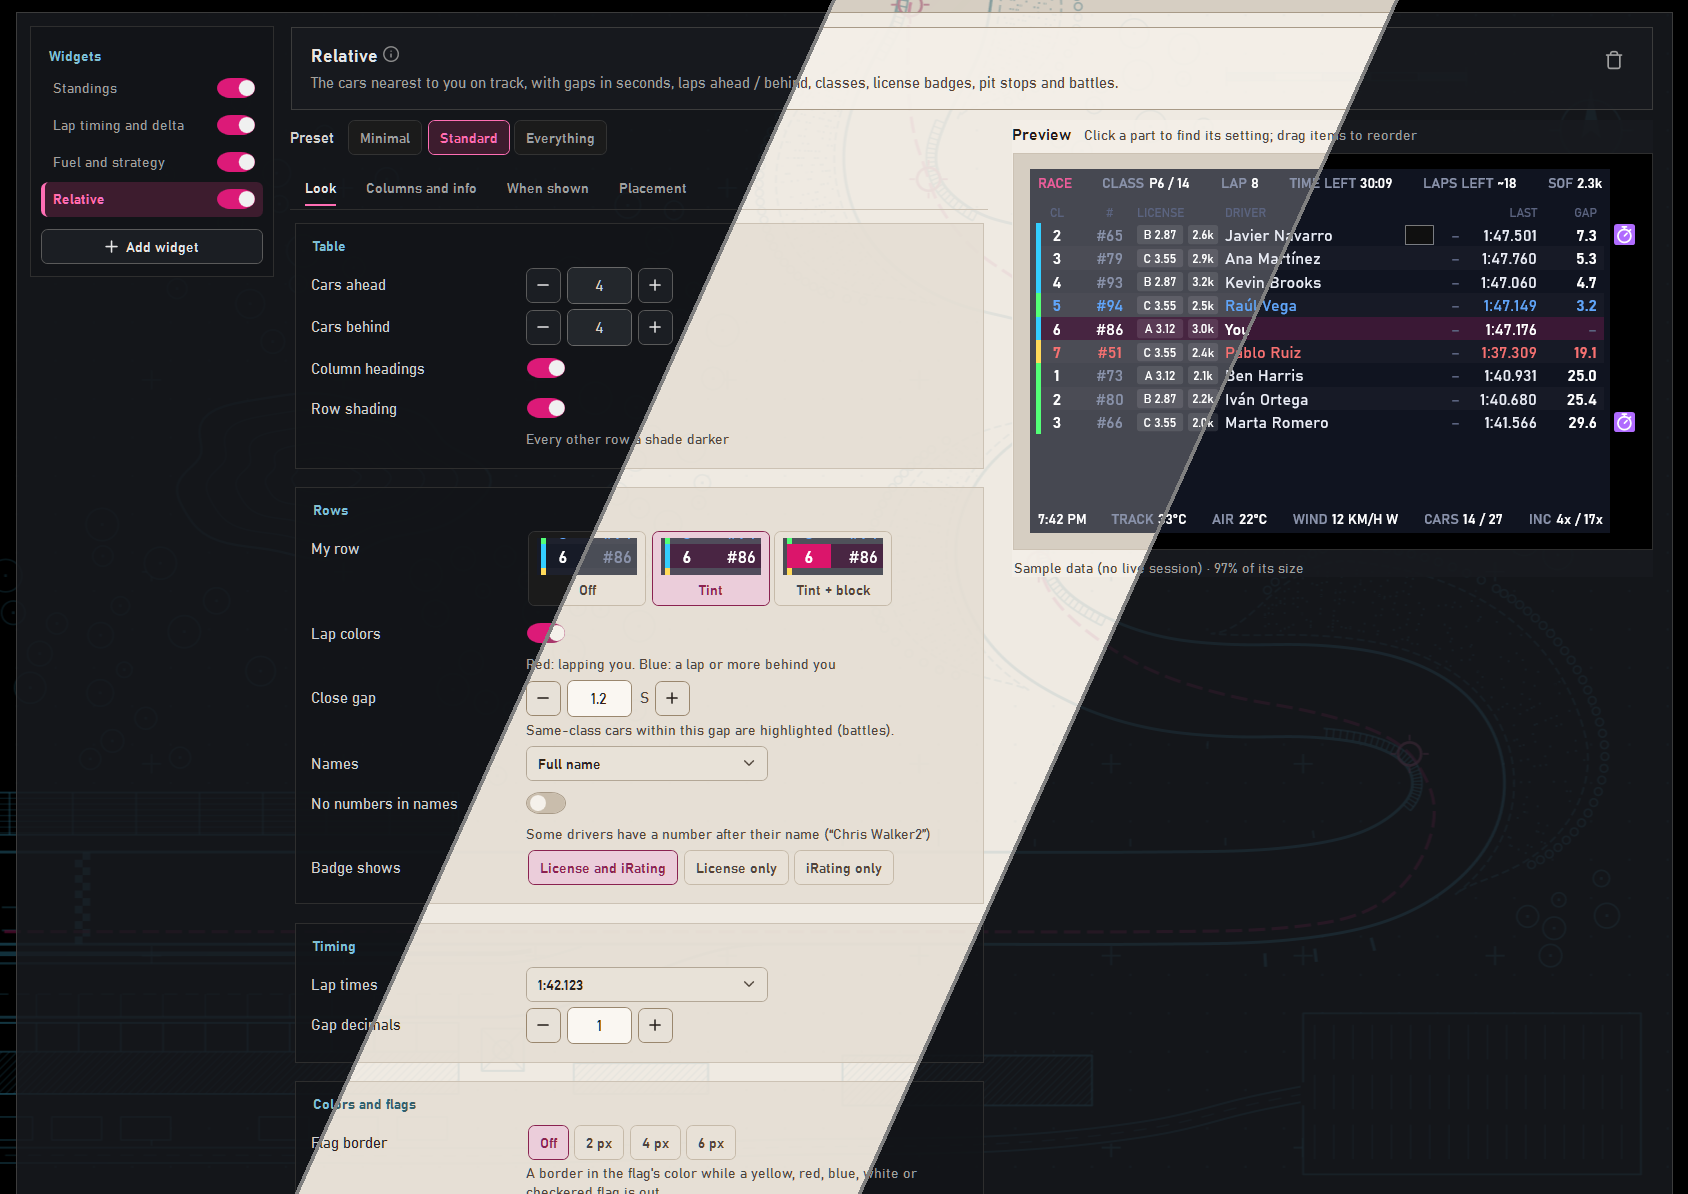
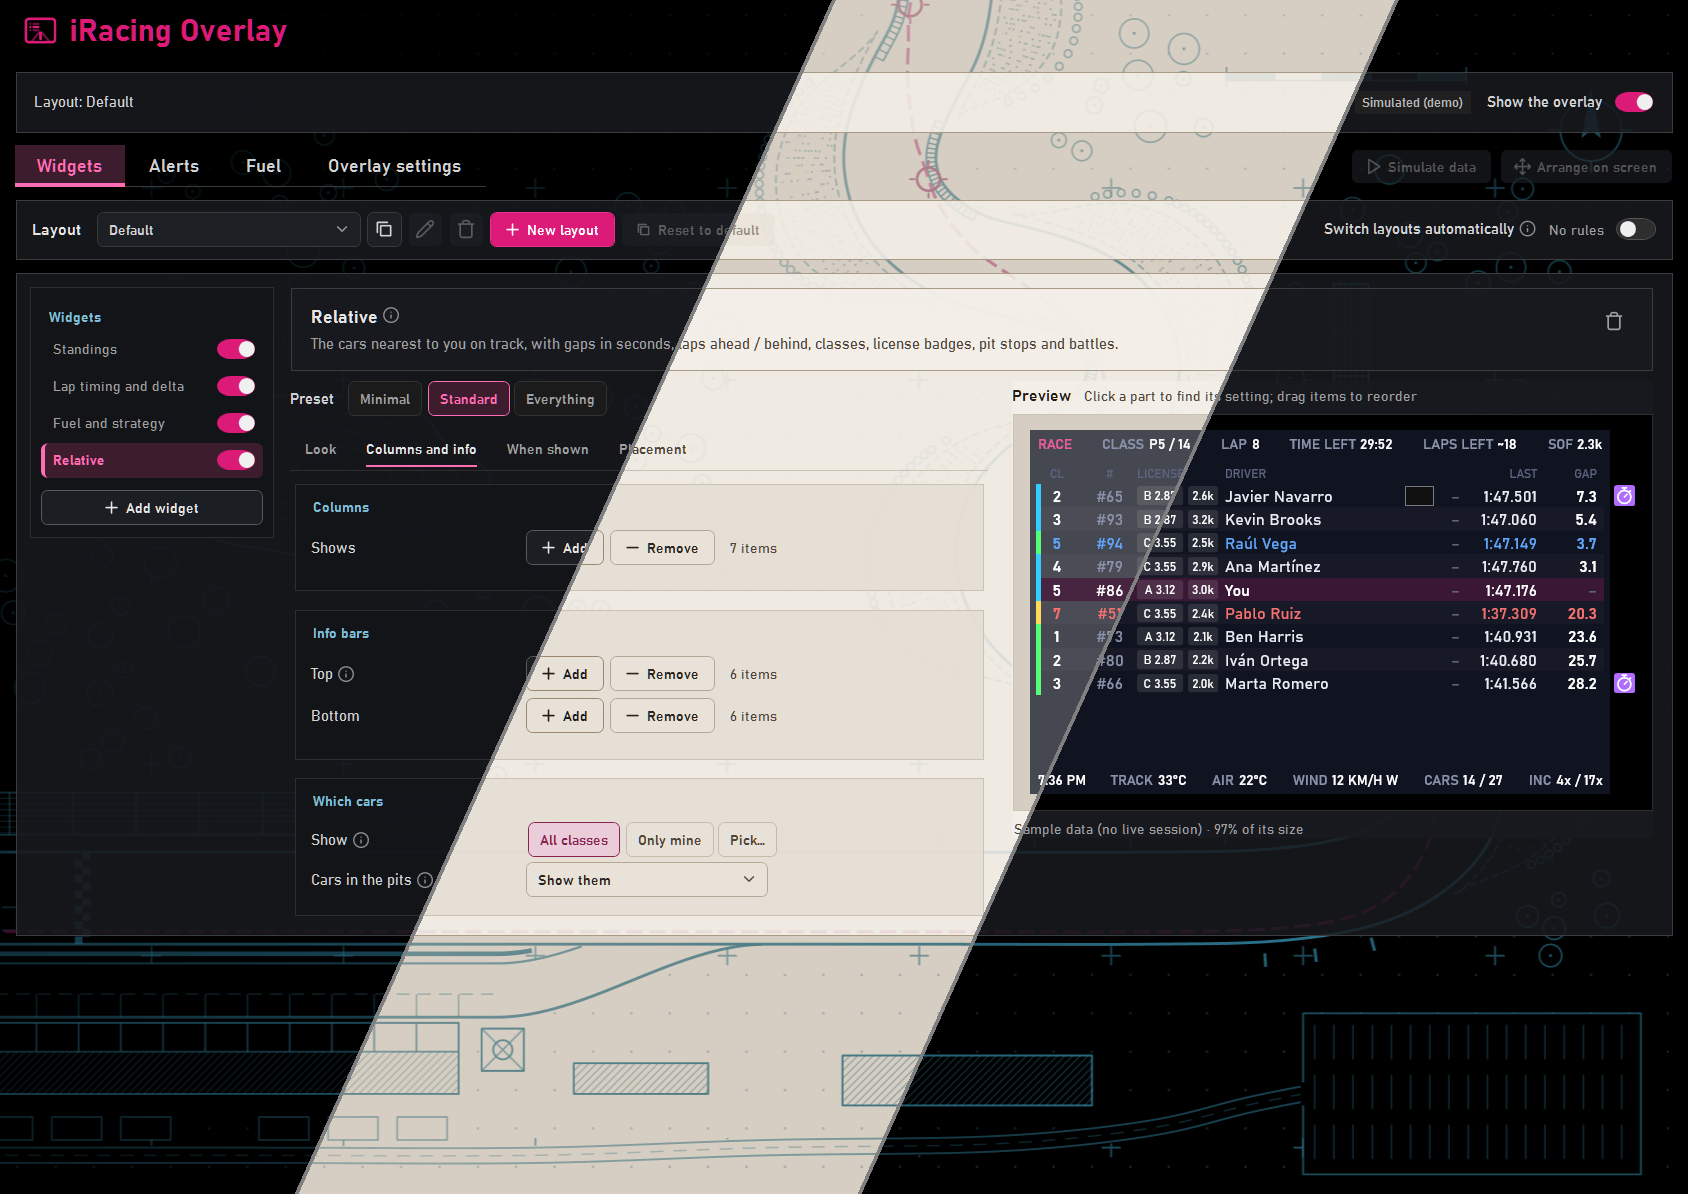
Update

diff --git a/src/PitBox/Grr/Views/GrrPage.cs b/src/PitBox/Grr/Views/GrrPage.cs
@@ -8,6 +8,7 @@ namespace PitBox.Grr.Views;
 internal sealed class GrrPage : UserControl, IPage, IScreenshotStates, ISectionedPage, IPageHistory
 {
     private readonly AppServices _app;
+    private readonly MainWindow _window;
     private readonly StackPanel _body = new() { Margin = new Thickness(23, 0, 23, 23) };
     private readonly ScrollViewer _scroll;
     private readonly GrrDashboardSection _dashboard;
@@ -25,6 +26,7 @@ internal sealed class GrrPage : UserControl, IPage, IScreenshotStates, ISectione
     public GrrPage(AppServices app, MainWindow window)
     {
         _app = app;
+        _window = window;
         _scroll = new ScrollViewer { Style = Ui.Res<Style>("PageScroll"), Content = Ui.PageFrame(_body), Focusable = false };
         Content = _scroll;
         _dashboard = new GrrDashboardSection(app, window, leagueTabs: false) { ThemeToggled = ToggleTheme };
@@ -60,6 +62,7 @@ internal sealed class GrrPage : UserControl, IPage, IScreenshotStates, ISectione
         _theme = _app.Config.Grr.PageTheme && _app.Config.Ui.Theme != GrrTheme.Id ? Theme.ThemeManager.Build(GrrTheme.Spec) : null;
         if (_theme is not null) Resources.MergedDictionaries.Add(_theme);
         _dashboard.PageTheme = _theme;
+        if (_shown) _window.SetSidebarAccent(_theme);
     }
 
     private void ToggleTheme()
@@ -115,6 +118,7 @@ internal sealed class GrrPage : UserControl, IPage, IScreenshotStates, ISectione
     public void OnShown()
     {
         _shown = true;
+        _window.SetSidebarAccent(_theme);
         _app.Grr.Changed -= OnGrrChanged;
         _app.Grr.Changed += OnGrrChanged;
         if (Signature() != _signature) Changed();
@@ -124,6 +128,7 @@ internal sealed class GrrPage : UserControl, IPage, IScreenshotStates, ISectione
     public void OnHidden()
     {
         _shown = false;
+        _window.SetSidebarAccent(null);
         _app.Grr.Changed -= OnGrrChanged;
         _dashboard.OnHidden();
     }

diff --git a/src/PitBox/Views/Sidebar.cs b/src/PitBox/Views/Sidebar.cs
@@ -146,6 +146,17 @@ internal sealed class Sidebar : Border, IFrameStep
 
     private string? _settingsKey;
 
+    private static readonly string[] AccentKeys = ["Accent", "AccentSoft"];
+
+    public void UseAccent(ResourceDictionary? theme)
+    {
+        foreach (var key in AccentKeys)
+        {
+            if (theme?[key] is { } value) Resources[key] = value;
+            else Resources.Remove(key);
+        }
+    }
+
     public void Select(string? key, Func<string, SectionList?> sectionsOf, bool allOpen, bool animate = true)
     {
         var leaving = Filled();

diff --git a/src/PitBox/Views/MainWindow.xaml.cs b/src/PitBox/Views/MainWindow.xaml.cs
@@ -171,6 +171,8 @@ public partial class MainWindow : Window
 
     internal FrameworkElement SidebarView => _sidebar;
 
+    internal void SetSidebarAccent(ResourceDictionary? theme) => _sidebar.UseAccent(theme);
+
     private ISectionedPage? _watched;
     private (string? Page, string? Section) _lastSection;
 
